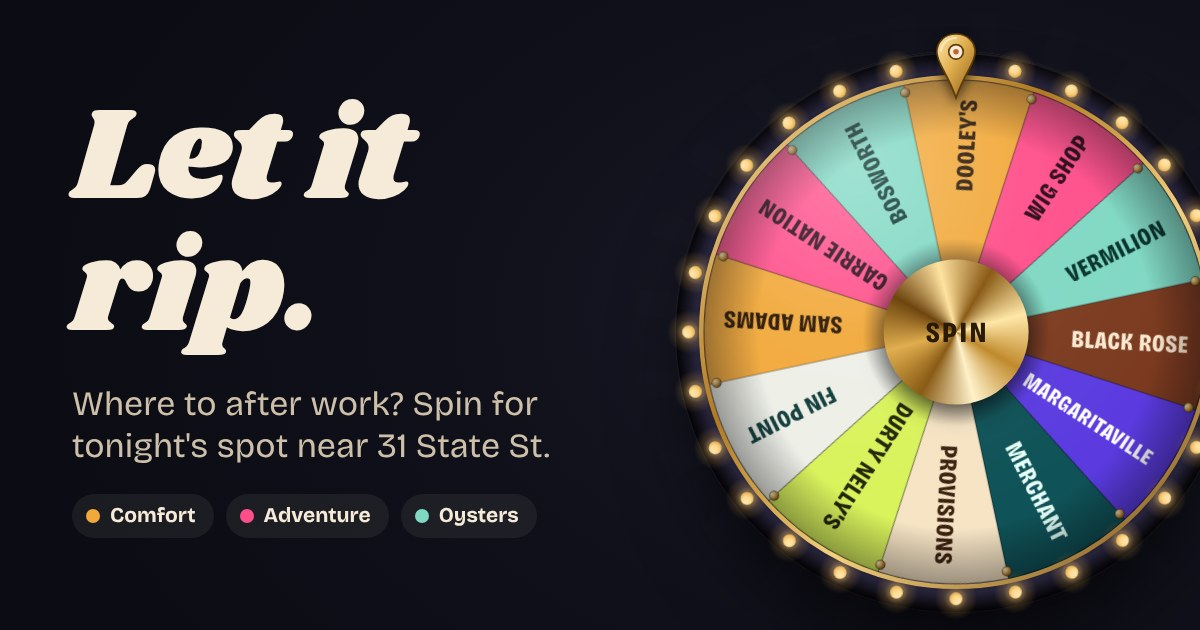
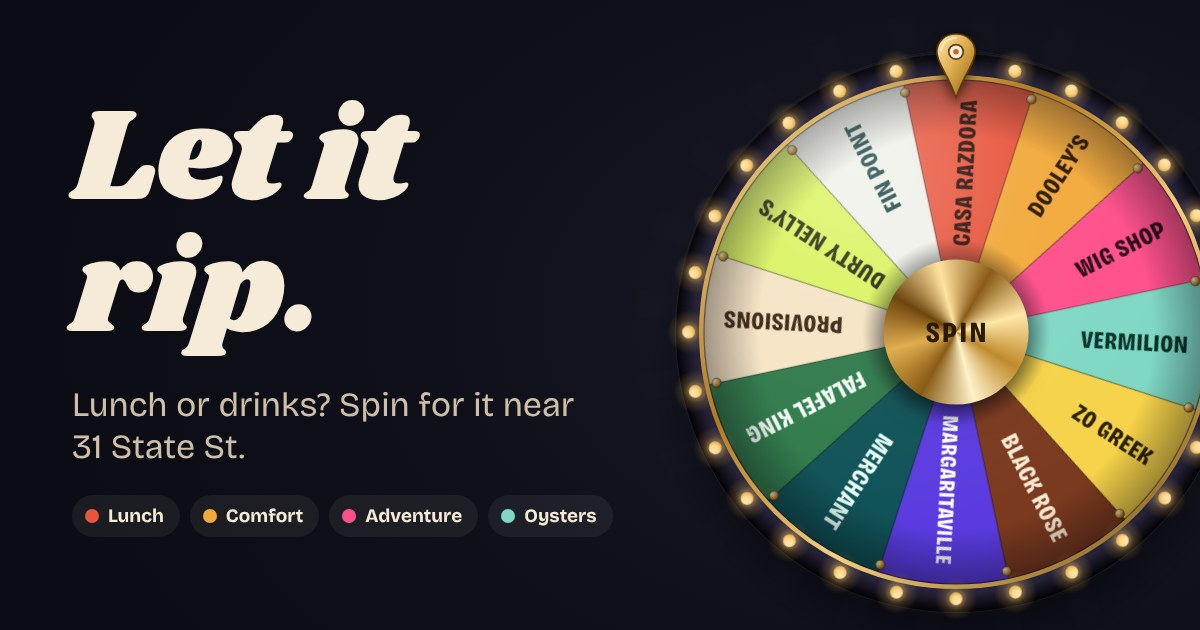
Fill the Lunch wheel with 16 verified spots
The four named spots, corrected where needed (Zo Greek at 92 State St, Falafel
King at 260 Washington St, Tatte at One Boston Place), plus 12 more within
about 11 minutes. Also keeps a just-saved list from being replaced by a
slightly older server copy, refreshes on tab focus at most every 30 seconds,
and updates the social card and README for Lunch.

Claude-Session: https://claude.ai/code/session_01W7YZeT2sMjH47Qh8DXGGLN

diff --git a/data/spots.js b/data/spots.js
@@ -78,7 +78,7 @@ export const SPOTS = {
       name: "Bostonia Public House",
       short: "Bostonia",
       address: "131 State St",
-      walk: 3,
+      walk: 4,
       rating: 4.2,
       vibe: "Grand old Board of Trade hall with bars on two floors.",
       url: "https://www.bostoniapublichouse.com/",
@@ -278,7 +278,7 @@ export const SPOTS = {
       name: "Fin Point Oyster Bar",
       short: "Fin Point",
       address: "89 Broad St",
-      walk: 7,
+      walk: 6,
       rating: 4.4,
       vibe: "Sleek hotel raw bar a few blocks from the office.",
       deal: "$1 oysters at the bar, Thu–Sat 2–5pm",
@@ -350,9 +350,209 @@ export const SPOTS = {
   ],
 
   lunch: [
-    { id: "casa-razdora", name: "Casa Razdora", short: "Casa Razdora", address: "115 Water St", walk: 5, price: "$", style: "counter", vibe: "Fresh pasta and Italian sandwiches." },
-    { id: "zo", name: "Zo", short: "Zo", address: "3 Center Plaza", walk: 6, price: "$", style: "counter", vibe: "Greek gyros and souvlaki." },
-    { id: "falafel-king", name: "Falafel King", short: "Falafel King", address: "48 Winter St", walk: 7, price: "$", style: "counter", vibe: "Falafel and shawarma." },
-    { id: "tatte", name: "Tatte", short: "Tatte", address: null, walk: null, price: "$$", style: "counter", vibe: "Bakery and cafe." },
+    {
+      id: "casa-razdora",
+      name: "Casa Razdora",
+      short: "Casa Razdora",
+      address: "115 Water St",
+      walk: 4,
+      rating: 4.5,
+      price: "$",
+      style: "counter",
+      vibe: "Tiny Italian counter: homemade pasta, 26 sauces, great panini.",
+      heads: "Weekdays only, 11am to 3pm. The line is longest from 11:30 to 1.",
+      url: "https://www.casarazdora.com/",
+    },
+    {
+      id: "zo-greek",
+      name: "Zo Greek",
+      short: "Zo Greek",
+      address: "92 State St",
+      walk: 3,
+      rating: 4.4,
+      price: "$",
+      style: "counter",
+      vibe: "Gyro counter: rotisserie meat, fresh pita, real tzatziki.",
+      heads: "Weekdays only, about 11am to 3pm. The entrance is on Merchants Row. Tiny, so plan on takeout.",
+      url: "https://www.zoboston.com/",
+    },
+    {
+      id: "falafel-king",
+      name: "Falafel King",
+      short: "Falafel King",
+      address: "260 Washington St",
+      walk: 3,
+      rating: 4.1,
+      price: "$",
+      style: "counter",
+      vibe: "Cheap, generous falafel wraps for a fast, filling lunch.",
+      heads: "This is the Washington St shop, not the Summer St one.",
+      url: "https://falafelkingboston.com/washington-street",
+    },
+    {
+      id: "tatte",
+      name: "Tatte Bakery & Cafe",
+      short: "Tatte",
+      address: "201 Washington St",
+      walk: 2,
+      rating: 4.4,
+      price: "$$",
+      style: "counter",
+      vibe: "Bakery cafe: shakshuka, tartines and pistachio croissants.",
+      heads: "The One Boston Place cafe, a block away.",
+      url: "https://tattebakery.com/locations/ma/boston/201-washington-st/",
+    },
+    {
+      id: "als-state-street",
+      name: "Al's State Street Cafe",
+      short: "Al's State St",
+      address: "114 State St",
+      walk: 4,
+      rating: 4.3,
+      price: "$",
+      style: "counter",
+      vibe: "Fast, filling subs. Regulars swear by the chicken salad.",
+      heads: "Weekdays, 10:30am to 3pm. The noon line is long but moves fast.",
+    },
+    {
+      id: "banh-mi-ok",
+      name: "Banh Mi Ok",
+      short: "Banh Mi Ok",
+      address: "44 School St",
+      walk: 4,
+      rating: 4.6,
+      price: "$$",
+      style: "counter",
+      vibe: "Top-rated banh mi downtown. The spring rolls are a hit too.",
+      heads: "Closed Sundays. Small shop, so plan on takeout.",
+    },
+    {
+      id: "cocobeet",
+      name: "Cocobeet",
+      short: "Cocobeet",
+      address: "100 City Hall Plaza",
+      walk: 4,
+      rating: 4.4,
+      price: "$$",
+      style: "counter",
+      vibe: "Plant-based grain bowls, salads and smoothies by City Hall.",
+      heads: "Few seats, and some salads sell out at lunch.",
+      url: "https://cocobeet.com/",
+    },
+    {
+      id: "sam-lagrassas",
+      name: "Sam LaGrassa's",
+      short: "Sam LaGrassa's",
+      address: "44 Province St",
+      walk: 5,
+      rating: 4.4,
+      price: "$$",
+      style: "counter",
+      vibe: "Boston's famous deli: piled-high pastrami and roast beef.",
+      heads: "Weekdays only, 11am to 2pm. Pricey: many sandwiches run $20 to $31.",
+      url: "https://samlagrassas.com/",
+    },
+    {
+      id: "sando-table",
+      name: "Sando Table",
+      short: "Sando Table",
+      address: "71 Broad St",
+      walk: 5,
+      rating: 4.3,
+      price: "$$",
+      style: "counter",
+      vibe: "Japanese katsu and egg sandos on fluffy milk bread.",
+      heads: "Closed Mondays. The popular sandos sell out, so go early.",
+      url: "https://www.toasttab.com/local/order/sando-table-71-broad-street",
+    },
+    {
+      id: "bostonia-lunch",
+      name: "Bostonia Public House",
+      short: "Bostonia",
+      address: "131 State St",
+      walk: 4,
+      rating: 4.2,
+      price: "$$$",
+      style: "sit-down",
+      vibe: "Sit-down State Street pub with tables big enough for the team.",
+      heads: "Opens at 11:30am on weekdays. Book ahead for a big group.",
+      url: "https://www.bostoniapublichouse.com/",
+    },
+    {
+      id: "fin-point-lunch",
+      name: "Fin Point Oyster Bar",
+      short: "Fin Point",
+      address: "89 Broad St",
+      walk: 6,
+      rating: 4.4,
+      price: "$$$",
+      style: "sit-down",
+      vibe: "Raw bar and New England seafood for a proper sit-down lunch.",
+      heads: "Pricier. Book on OpenTable for a group.",
+      url: "https://www.thedagnyboston.com/dine/fin-point-oyster-bar-grille/",
+    },
+    {
+      id: "chacarero",
+      name: "Chacarero",
+      short: "Chacarero",
+      address: "101 Arch St",
+      walk: 7,
+      rating: 4.1,
+      price: "$$",
+      style: "counter",
+      vibe: "Chilean sandwiches on house-made bread. The line is worth it.",
+      heads: "Weekdays only, 11am to 3pm, and the noon line runs out the door.",
+      url: "https://chacarero.com/",
+    },
+    {
+      id: "high-street-place",
+      name: "High Street Place",
+      short: "High St Place",
+      address: "100 High St",
+      walk: 7,
+      rating: 3.9,
+      price: "$$",
+      style: "food hall",
+      vibe: "Food hall with about 20 stalls: sushi, porchetta, burgers and more.",
+      heads: "Closed Sundays. Stalls close an hour before the hall does.",
+      url: "https://www.highstreetplace.com/",
+    },
+    {
+      id: "tenoch",
+      name: "Tenoch Mexican",
+      short: "Tenoch",
+      address: "3 Lewis St",
+      walk: 11,
+      rating: 4.3,
+      price: "$",
+      style: "counter",
+      vibe: "Tortas and fish tacos, worth the walk into the North End.",
+      url: "https://www.tenochmexican.com/",
+    },
+    {
+      id: "galleria-umberto",
+      name: "Galleria Umberto",
+      short: "Umberto",
+      address: "289 Hanover St",
+      walk: 11,
+      rating: 4.5,
+      price: "$",
+      style: "counter",
+      vibe: "Sicilian pizza squares and arancini until they sell out.",
+      heads: "Cash only. Lunch only, and it closes when the food runs out (around 2:30pm). Closed Sundays.",
+    },
+    {
+      id: "genes-flatbread",
+      name: "Gene's Chinese Flatbread Cafe",
+      short: "Gene's",
+      address: "86 Bedford St",
+      walk: 11,
+      rating: 3.9,
+      price: "$",
+      style: "counter",
+      vibe: "Hand-pulled noodles and cumin lamb. Cramped and worth it.",
+      heads: "Cash only at the counter, about 21 seats. Closed Sundays.",
+      url: "http://www.genescafeboston.com/",
+    },
   ],
 };

diff --git a/assets/app.js b/assets/app.js
@@ -117,6 +117,8 @@ let result = null;
 let staleWheel = false;
 let drawerCat = tab === "lunch" ? "lunch" : mode === "all" ? "comfort" : mode;
 let lastFocus = null;
+let lastWrite = 0;
+let lastFetch = 0;
 
 // ---------- vetoes (this device, until 5am Boston time) ----------
 
@@ -624,13 +626,16 @@ function setDoc(next, { fromServer = false } = {}) {
 }
 
 async function loadShared() {
+  lastFetch = Date.now();
   try {
     const res = await fetch("/api/spots", { cache: "no-store", headers: { accept: "application/json" } });
     const data = await res.json();
     if (!res.ok) throw new Error(data && data.message);
     if (data.shared) {
       shared = true;
-      setDoc(data, { fromServer: true });
+      // Right after a save, another server copy can still be a few seconds behind. Keep the newer list.
+      const behind = (Number(data.rev) || 0) < (Number(doc.rev) || 0) && Date.now() - lastWrite < 30000;
+      if (!behind) setDoc(data, { fromServer: true });
     } else {
       shared = false;
       setDoc(store.get(KEY.local) || seedDoc());
@@ -671,6 +676,7 @@ async function change(op) {
       if (res.status === 409 || res.status === 404) loadShared();
       return null;
     }
+    lastWrite = Date.now();
     setDoc(data, { fromServer: true });
     return { ...local, spot: data.spot || local.spot };
   } catch {
@@ -681,7 +687,7 @@ async function change(op) {
 }
 
 document.addEventListener("visibilitychange", () => {
-  if (document.visibilityState === "visible" && shared !== false) loadShared();
+  if (document.visibilityState === "visible" && shared !== false && Date.now() - lastFetch > 30000) loadShared();
 });
 
 // ---------- edit drawer ----------

diff --git a/README.md b/README.md
@@ -79,3 +79,10 @@ Happy-hour deals change often; the card says when a deal was checked.
 Closed in 2024 to 2026, so don't add them back: Hennessy's, Clarke's at Faneuil
 Hall, The Times Irish Pub, Daiquiris & Daisies, Scholars, Silvertone, Boston
 Chops Downtown Crossing, and Cheers Faneuil Hall.
+
+Lunch: Zo is Zo Greek at 92 State St (the Center Plaza Zo closed), Falafel King
+is the 260 Washington St shop, and Tatte is the One Boston Place cafe at 201
+Washington St. Many downtown lunch spots are weekday-only and close by 2 or 3pm;
+the result card says so. Closed or moved, so don't add them back: Sultan's
+Kitchen, Durgin-Park, Fóumami, Sakurabana, Clover on School St, and Wheelhouse
+on Broad St (it's now a stall in High Street Place).
